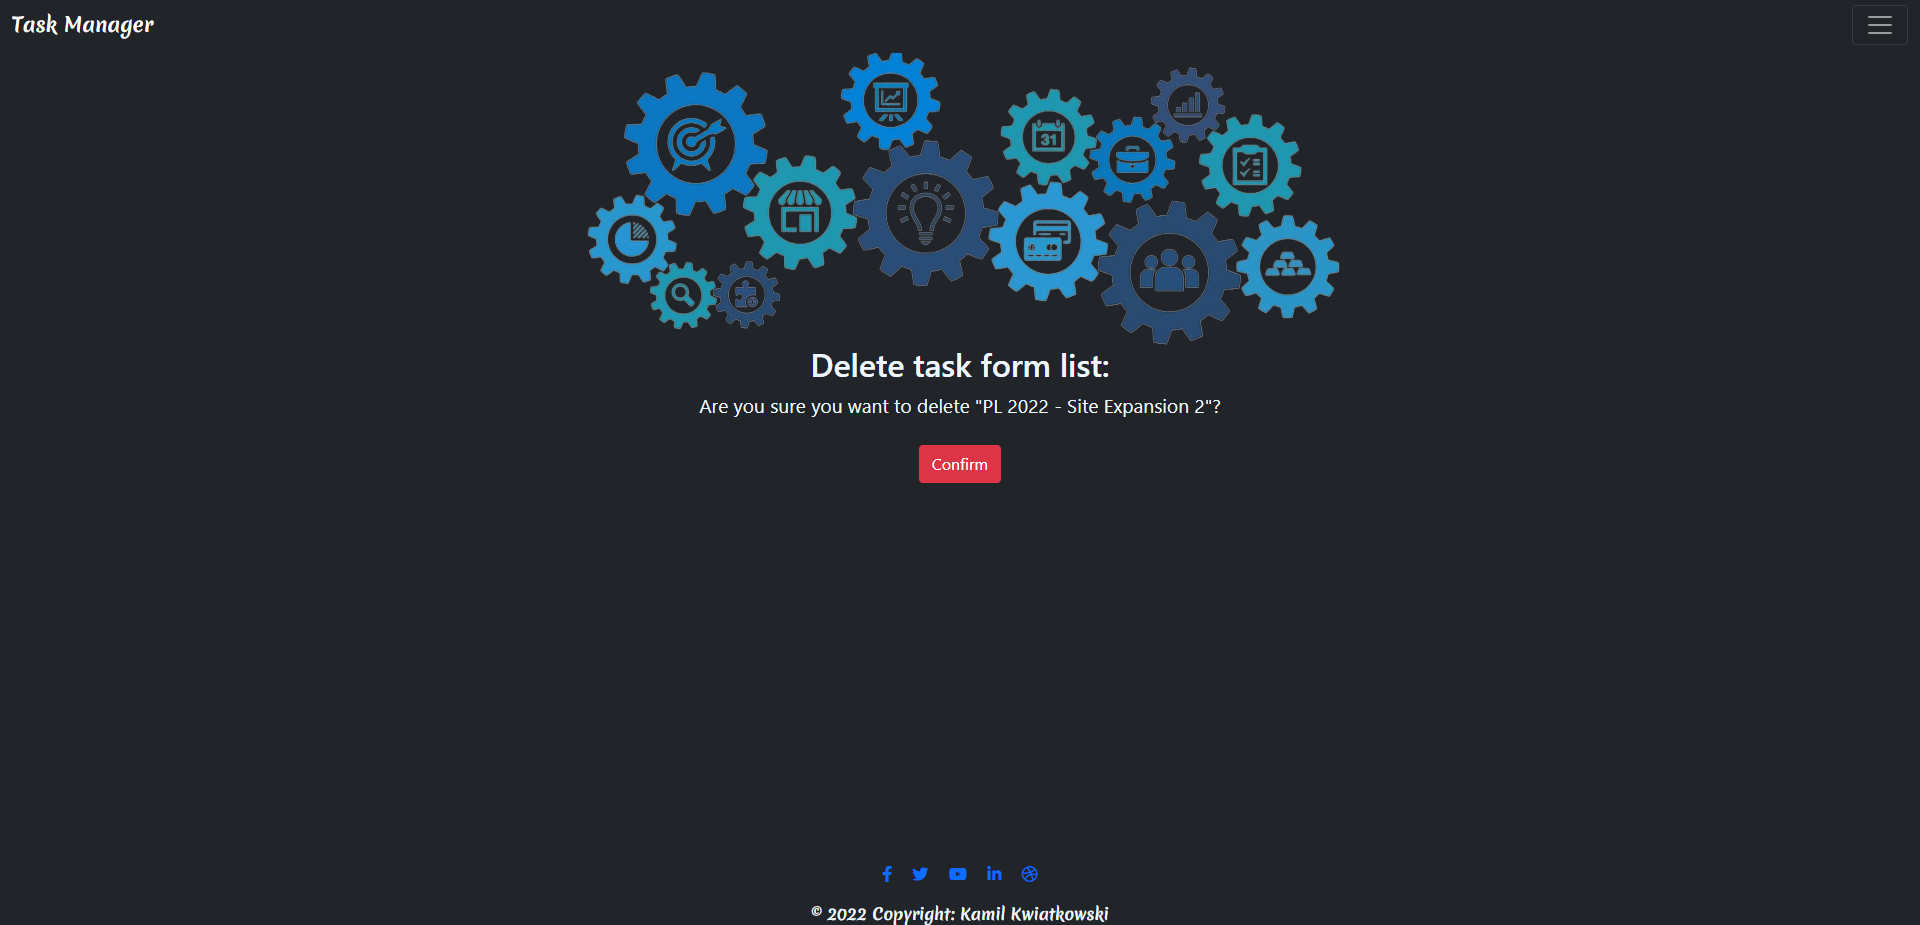
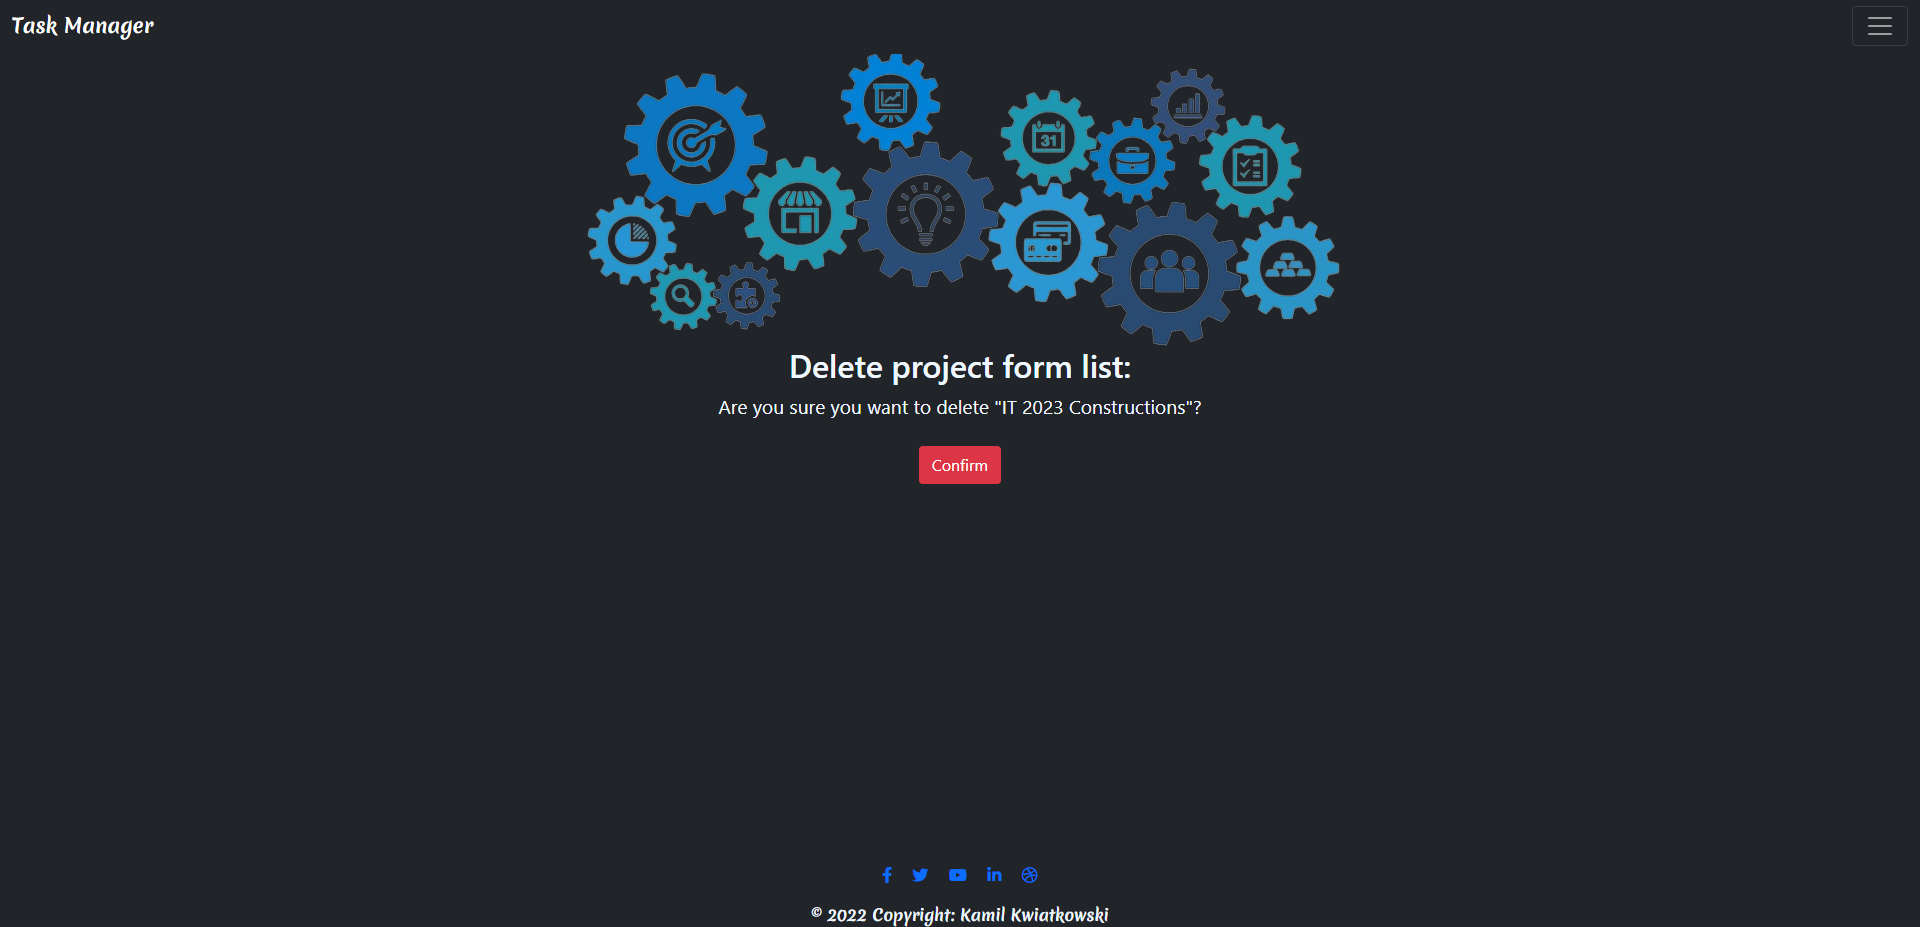
Readme Adding task actions and filter tests

diff --git a/manager/templates/manager/delete_project.html b/manager/templates/manager/delete_project.html
@@ -4,7 +4,7 @@
 {% block content %}
 <div class="row action_field">
     <div class="col center">
-<h2>Delete task form list:</h2>
+<h2>Delete project form list:</h2>
 <form method="POST" enctype="multipart/form-data">
     {% csrf_token %}
 

diff --git a/README.md b/README.md
@@ -191,6 +191,58 @@ During creation journey I did use:
 
 ![Login Page wrong user or password](images/readme_images/testing/login_page_wrong_login.png)
 
+![Project List](images/readme_images/testing/project_list.png)
+
+### **Project List**
+<hr>
+
+### **Add Project**
+
+![Add Project](images/readme_images/testing/add_project.png)
+
+### **Update Project**
+
+![Update Project](images/readme_images/testing/update_project.png)
+
+### **Delete Project**
+
+![Delete Project](images/readme_images/testing/delete_project.png)
+
+### **Task List**
+<hr>
+
+### **Toggle button**
+
+![Login Page wrong user or password](images/readme_images/testing/toggle_task.png)
+
+### **Edit Task**
+
+![Edit Task](images/readme_images/testing/edit_task.png)
+
+### **Pagination**
+
+![Edit Task](images/readme_images/testing/pagination_page_1.png)
+
+![Edit Task](images/readme_images/testing/pagination_page_2.png)
+
+### **Filter Area**
+<hr>
+
+### **Done dropdown**
+
+![Edit Task](images/readme_images/testing/filter_dropdown.png)
+
+### **Project Filter**
+
+![Project Filter](images/readme_images/testing/filter_project.png)
+
+### **Date Range Filter**
+
+![Date Range Filter](images/readme_images/testing/filter_date_range.png)
+
+### **Owner Filter**
+
+![Date Range Filter](images/readme_images/testing/filter_owner.png)
 
 
 [Back to Table Of Content](#tableOfContents)
@@ -285,10 +337,6 @@ To deploy my final project to the cloud I used Heroku. To do this I had to:
 
 ![User authenticated Home Page Menu](images/readme_images/testing/home_page_menu.png)
 
-### **Home Page**
-<hr>
-
-![Home Page](images/readme_images/testing/home_page.png)
 
 ### **Project List**
 <hr>
@@ -309,6 +357,18 @@ To deploy my final project to the cloud I used Heroku. To do this I had to:
 <hr>
 
 ![Delete Project](images/readme_images/testing/delete_project.png)
+
+### **Home Page**
+<hr>
+
+![Home Page](images/readme_images/testing/home_page.png)
+
+### **Edit Task**
+<hr>
+
+![Edit Task](images/readme_images/testing/edit_task.png)
+
+
 
 [See testing photos](#functionTest) for more end product photo.
 
